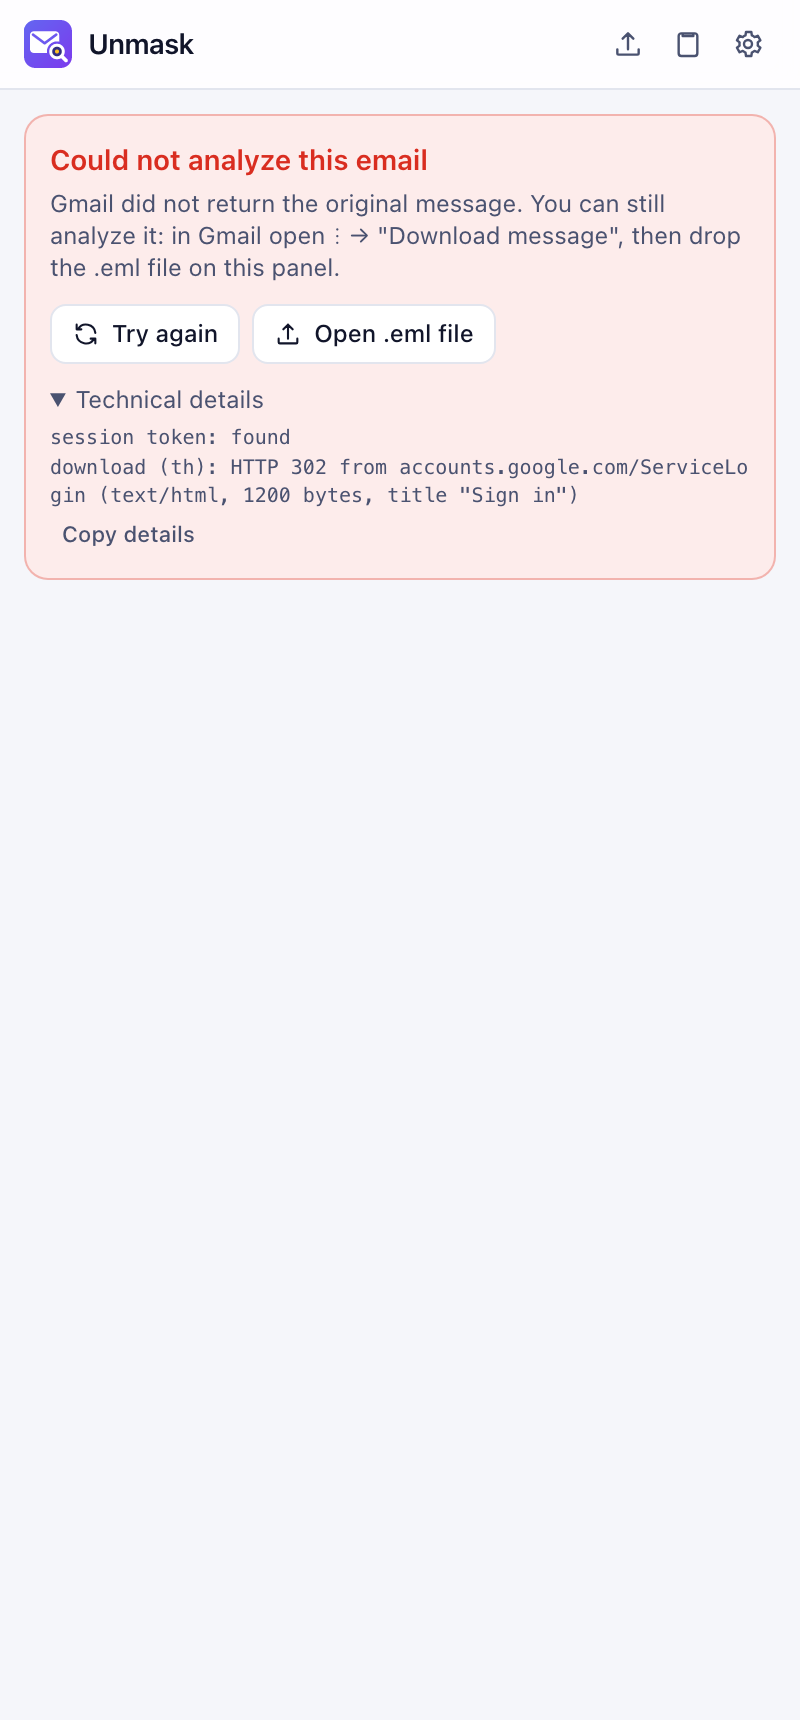
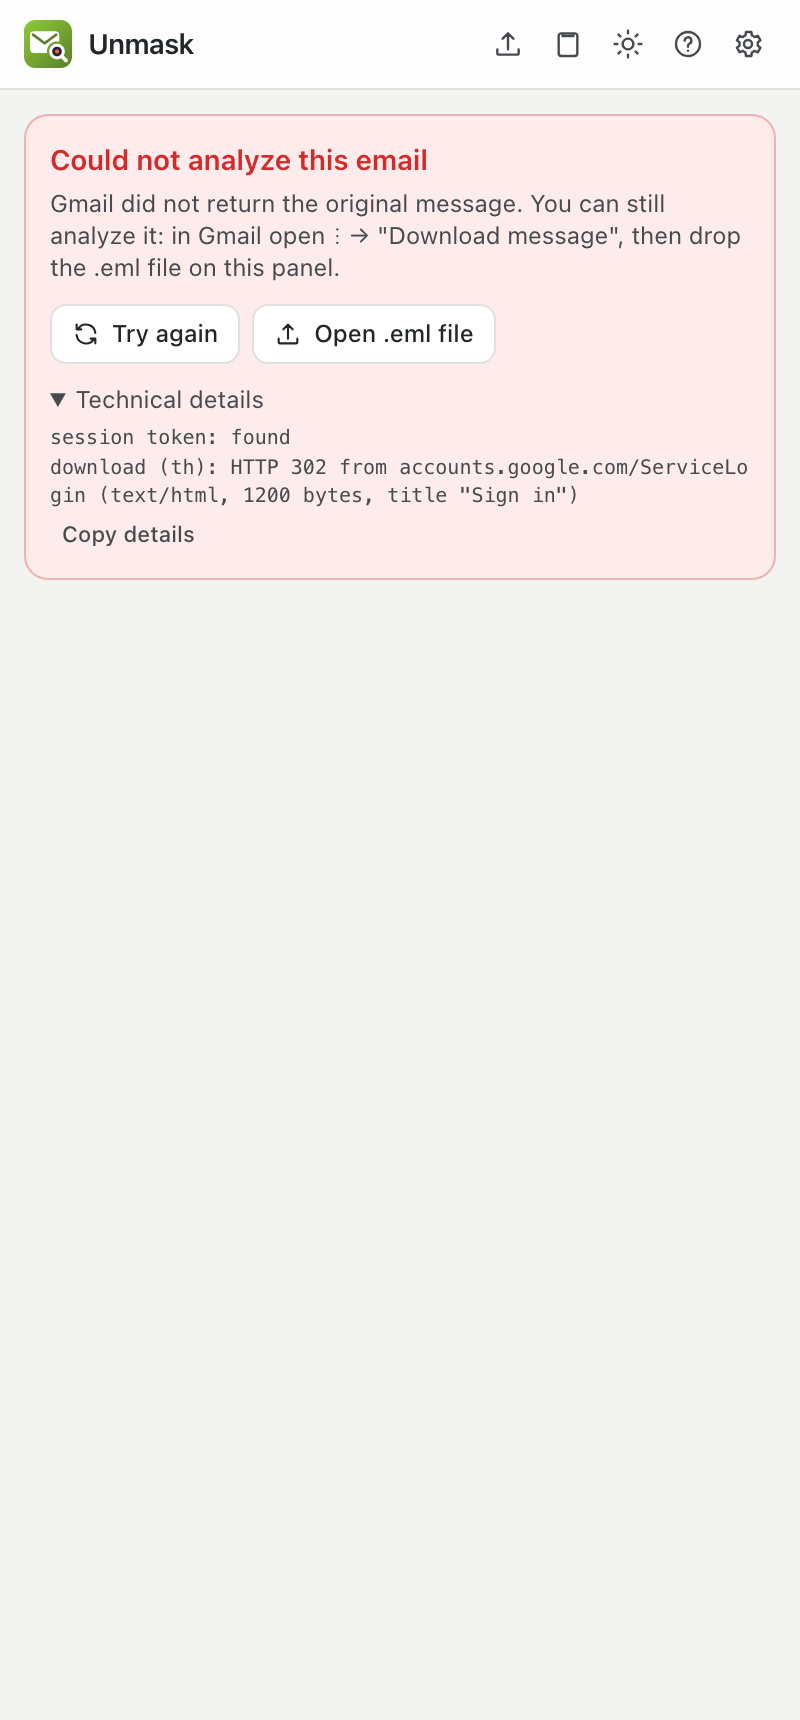
docs: new screenshots, README quick start, built-in tracing in every guide
All screenshots retaken in the green theme (light and dark), plus new ones
for plain-text hover, headers and tracing. The README opens with a three-step
quick start linking the website, user guide and wiki. The user guide, limits,
privacy policy and architecture describe built-in redirect tracing, its
optional permission and the theme switch.

diff --git a/README.md b/README.md
@@ -10,15 +10,17 @@
 </p>
 
 <p align="center">
-  <a href="https://github.com/praneeth132006/Unmask/releases/latest"><img alt="Latest release" src="https://img.shields.io/github/v/release/praneeth132006/Unmask?label=download&color=6366F1"></a>
+  <a href="https://github.com/praneeth132006/Unmask/releases/latest"><img alt="Latest release" src="https://img.shields.io/github/v/release/praneeth132006/Unmask?label=download&color=61892F"></a>
   <a href="https://github.com/praneeth132006/Unmask/actions/workflows/ci.yml"><img alt="CI" src="https://github.com/praneeth132006/Unmask/actions/workflows/ci.yml/badge.svg"></a>
   <a href="https://github.com/praneeth132006/Unmask/actions/workflows/codeql.yml"><img alt="CodeQL" src="https://github.com/praneeth132006/Unmask/actions/workflows/codeql.yml/badge.svg"></a>
-  <a href="LICENSE"><img alt="MIT licence" src="https://img.shields.io/github/license/praneeth132006/Unmask?color=0c8f61"></a>
-  <a href="CONTRIBUTING.md"><img alt="PRs welcome" src="https://img.shields.io/badge/PRs-welcome-5b4cf0"></a>
+  <a href="LICENSE"><img alt="MIT licence" src="https://img.shields.io/github/license/praneeth132006/Unmask?color=474B4F"></a>
+  <a href="CONTRIBUTING.md"><img alt="PRs welcome" src="https://img.shields.io/badge/PRs-welcome-86C232"></a>
 </p>
 
 <p align="center">
-  <a href="docs/USER_GUIDE.md">User guide</a> ·
+  <a href="https://praneeth132006.github.io/Unmask/"><b>Website</b></a> ·
+  <a href="https://praneeth132006.github.io/Unmask/guide.html"><b>User guide</b></a> ·
+  <a href="https://github.com/praneeth132006/Unmask/wiki">Wiki</a> ·
   <a href="docs/CHECKS.md">What it checks</a> ·
   <a href="docs/ARCHITECTURE.md">How it works</a> ·
   <a href="docs/BACKEND.md">Redirect-trace server</a> ·
@@ -29,6 +31,14 @@
 </p>
 
 ---
+
+## Quick start
+
+> **1. Download** [`unmask-chrome-<version>.zip`](https://github.com/praneeth132006/Unmask/releases/latest) from the latest release (under *Assets*) and unzip it.<br>
+> **2. Load it:** open `chrome://extensions`, switch on **Developer mode** (top right), click **Load unpacked**, and pick the unzipped folder (the one with `manifest.json` in it).<br>
+> **3. Use it:** reload Gmail, open any email, and click the Unmask icon.
+>
+> 📖 **[Read the user guide](https://praneeth132006.github.io/Unmask/guide.html)**: every screen explained, step-by-step key setup, troubleshooting. Also in the [wiki](https://github.com/praneeth132006/Unmask/wiki) and [docs/USER_GUIDE.md](docs/USER_GUIDE.md).
 
 <p align="center">
   <img src="docs/images/overview-light.png" width="260" alt="Unmask summary in light mode, showing a High risk verdict">
@@ -48,7 +58,7 @@ Open an email in Gmail and click the Unmask icon. A side panel shows:
 - **Attachment checks**, including files pretending to be something else (`Invoice.pdf.html`) and a VirusTotal lookup.
 - **Hidden text and tracking pixels** the sender didn't want you to see.
 
-**Hover any red flag and Unmask outlines that exact part of the email in Gmail.** Click it to jump to the details, then use **Back to summary** to return.
+**Hover any red flag, link, or URL in the plain text and Unmask outlines that exact part of the email in Gmail.** Click a red flag to jump to the details, then use **Back to summary** to return. Switch between light, dark and system themes from the header.
 
 <p align="center">
   <img src="docs/images/highlight-link.png" width="420" alt="Hovering a finding outlines the matching link in the Gmail message">
@@ -109,12 +119,14 @@ Unmask works with no setup at all. These free services add extra checks you run 
 |---|---|---|---|
 | **VirusTotal** | Checks attachments (by fingerprint) and links against 70+ antivirus engines | 4 lookups/min, 500/day | Click **Check on VirusTotal** on any file or link and follow the 3 steps in the panel |
 | **urlscan.io** | Opens a link in urlscan's sandbox browser and shows a screenshot of where it lands | 1,000 unlisted + 50 private scans/day | Click **Sandbox scan** on any link and follow the steps |
-| **Redirect tracing** | Follows a link's redirects from your own server | Free on your computer | For technical users: run `pnpm backend`, see [docs/BACKEND.md](docs/BACKEND.md) |
+| **Redirect tracing** | Follows a link's redirects without opening it | Free, unlimited | Built in: click **Trace redirects** and allow once. A self-hosted server is optional ([docs/BACKEND.md](docs/BACKEND.md)) |
 
 **Free keys can never be charged.** Going over a limit just pauses that check until the quota resets. Paid plans exist only for heavy or commercial use: see **[Free limits and costs](docs/LIMITS_AND_COSTS.md)** for every number and price.
 
 <p align="center">
-  <img src="docs/images/setup-virustotal.png" width="300" alt="Step-by-step VirusTotal setup shown inside the panel">
+  <img src="docs/images/setup-virustotal.png" width="260" alt="Step-by-step VirusTotal setup shown inside the panel">
+  &nbsp;
+  <img src="docs/images/trace-dark.png" width="260" alt="One-click redirect tracing inside Unmask">
 </p>
 
 ## Privacy

diff --git a/docs/USER_GUIDE.md b/docs/USER_GUIDE.md
@@ -8,7 +8,7 @@ This guide is for everyone, no technical background needed. It covers installing
 - [4. Hover to see it in the email](#4-hover-to-see-it-in-the-email)
 - [5. Setting up VirusTotal](#5-setting-up-virustotal)
 - [6. Setting up urlscan.io](#6-setting-up-urlscanio)
-- [7. Redirect tracing (advanced)](#7-redirect-tracing-advanced)
+- [7. Tracing redirects](#7-tracing-redirects)
 - [8. Emails from Outlook and other apps](#8-emails-from-outlook-and-other-apps)
 - [9. Settings](#9-settings)
 - [10. Troubleshooting](#10-troubleshooting)
@@ -223,16 +223,23 @@ A scan takes 10 to 30 seconds. Scans are **unlisted** by default: hidden from ur
 
 ---
 
-## 7. Redirect tracing (advanced)
+## 7. Tracing redirects
 
-**Trace redirects** follows a link's chain of redirects (for example `bit.ly → tracker → final page`) from a small server **you run**, so your browser never opens the link. It's meant for technical users. Most people should use **Sandbox scan** instead, which shows the final page too.
+<img src="images/trace-dark.png" width="280" align="right" alt="Trace redirects explainer card">
 
-To use it:
+Links in emails often bounce through several addresses (`bit.ly → tracker → final page`). **Trace redirects** shows every step and where the link really ends, without opening it.
 
-1. In the Unmask project folder, run `pnpm backend` and leave it running.
-2. In Unmask, click **Trace redirects** on a link (or open **Settings → Advanced**), then click **Use local server**.
+1. In the **Links** tab, click **Trace redirects** on any link.
+2. The first time, Unmask explains what will happen. Click **Allow and trace**, then **Allow** in Chrome's prompt. You only do this once.
+3. The redirect chain appears in the card: each address, its status code, and how it redirected (HTTP, a `<meta refresh>` or JavaScript).
 
-You can also deploy the server to Vercel so it's always available. See [BACKEND.md](BACKEND.md).
+**What happens behind the scenes:** Unmask's background worker requests the link **without cookies or logins**, never opens it in a tab, and never runs its code. It reads only the first part of each page to spot meta or JavaScript redirects. Links pointing at your own network (your router, `localhost`, `192.168.x.x`) are refused.
+
+**Privacy note:** the link's website sees your IP address, just as if you'd visited it. If you'd rather it didn't, use **Sandbox scan** (urlscan.io visits it for you), or set up your own trace server under **Settings → Advanced → Redirect tracing → My own server** (see [BACKEND.md](BACKEND.md)).
+
+**Why does Chrome ask for permission?** Tracing needs to contact any website the link might lead to. The permission is optional and requested only when you first use it, so installing Unmask doesn't ask for it. You can remove it any time from `chrome://extensions` → Unmask → **Details** → **Site access**.
+
+<br clear="right">
 
 ---
 
@@ -257,12 +264,13 @@ To open Unmask's panel outside Gmail, click its toolbar icon on any page.
 
 <img src="images/settings-light.png" width="280" align="right" alt="Settings">
 
-Open Settings with the **gear icon**.
+Open Settings with the **gear icon**. The **?** icon next to it opens this guide.
 
 - **Extra checks:** each service shows **Connected** or **Not set up**, with buttons to set up, change or remove its key.
 - **urlscan.io scan visibility:** unlisted (recommended, 1,000 free per day), private (50 free per day; best for links with personal tokens) or public.
 - **Privacy → Check how old the sender's domain is:** on by default. It sends only the domain name (for example `example.com`) to rdap.org, the public registry lookup.
-- **Advanced → Redirect tracing:** the address of your trace server.
+- **Appearance:** System (follows your computer), Light or Dark. The sun/moon button in the header switches it too.
+- **Advanced → Redirect tracing:** *Inside Unmask* (default) or *My own server*, with the server's address.
 
 <br clear="right">
 

diff --git a/docs/LIMITS_AND_COSTS.md b/docs/LIMITS_AND_COSTS.md
@@ -10,7 +10,8 @@ _Prices and limits checked on 19 October 2026 against each provider's official p
 | **Domain age** (rdap.org) | Free, no account | No published quota; 1 lookup per email you open | Rarely, a registry may refuse a lookup; Unmask shows "RDAP returned HTTP 429" and carries on |
 | **VirusTotal** (files and links) | Free account | **4 lookups per minute, 500 per day** (about 15,500 per month) | "VirusTotal rate limit reached"; try again in a minute, or after 00:00 UTC for the daily limit. No charge. |
 | **urlscan.io** (sandbox scans) | Free account | **5,000 public, 1,000 unlisted and 50 private scans per day**, 10,000 result lookups per day | "urlscan.io rate limit reached"; try again later. No charge. |
-| **Redirect-trace server** (optional, self-hosted) | Free on your computer; free on Vercel Hobby | Vercel Hobby: 1M requests and 4 hours of active CPU per month | Hobby projects stop at the cap. They can't buy more, so there's no surprise bill. |
+| **Redirect tracing** (built in) | Free | Unlimited (it runs in your browser) | — |
+| **Your own trace server** (optional) | Free on your computer; free on Vercel Hobby | Vercel Hobby: 1M requests and 4 hours of active CPU per month | Hobby projects stop at the cap. They can't buy more, so there's no surprise bill. |
 
 ## How much will I actually use?
 
@@ -56,9 +57,9 @@ Official source: [urlscan.io pricing](https://urlscan.io/pricing/).
 
 rdap.org is a free public service that forwards each lookup to the official registry for that domain ending (for example Verisign for `.com`). There is no account and no published quota. Unmask makes **one lookup per email**, only for the sender's domain, and you can turn it off in **Settings → Privacy**.
 
-## Redirect-trace server
+## Redirect tracing
 
-Optional and for technical users ([BACKEND.md](BACKEND.md)).
+Built into Unmask and free: it runs in your browser and costs nothing. The self-hosted server is only for people who'd rather the link's website saw a server's IP address instead of theirs ([BACKEND.md](BACKEND.md)).
 
 - **On your own computer** (`pnpm backend`): free, no limits beyond your machine.
 - **On Vercel Hobby:** free for personal, non-commercial use, including 1M function invocations, 4 hours of active CPU and 360 GB-hours of memory per month. Each trace is one invocation lasting a few seconds at most. Hobby accounts **can't buy extra usage**, so you're never billed; the project stops when it hits the cap.

diff --git a/PRIVACY.md b/PRIVACY.md
@@ -16,7 +16,8 @@ Unmask is a browser extension that analyses emails for signs of phishing. It is 
 | Data | Sent to | When |
 |---|---|---|
 | The sender's domain name (e.g. `example.com`) | rdap.org and the domain's registry | Automatically when an email is analysed, unless you turn off "Check how old the sender's domain is" in Settings, or when you click **Check domain age** |
-| One link's URL | The redirect-trace backend URL you configured | Only when you click **Trace redirects** on that link |
+| A request to the link itself (no cookies, never opened in a tab) | The link's website, and each site it redirects to | Only when you click **Trace redirects** (built-in tracing). The sites see your IP address, as with any visit |
+| One link's URL | Your own trace server | Only if you chose **My own server** in Settings and click **Trace redirects** |
 | Your API key, to check it works | VirusTotal or urlscan.io | When you click **Save & test** while setting up a key |
 | One link's URL | urlscan.io, using your API key | Only when you click **Sandbox scan** on that link |
 | One link's URL | VirusTotal, using your API key | Only when you click **VirusTotal** on that link |
@@ -37,6 +38,7 @@ If you run or deploy the open-source backend in this repository, it receives one
 - `https://www.virustotal.com/*`, `https://urlscan.io/*`: to call those services when you click their buttons.
 - `storage`: to save your settings.
 - `tabs`: to know whether the active tab is Gmail.
+- `webRequest` and the **optional** permission to access all sites: used only by **Trace redirects**, to see each redirect step of Unmask's own background request. Chrome asks for it the first time you trace a link; Unmask never reads or changes your browsing.
 - `sidePanel`: to show the Unmask panel.
 
 ## No tracking

diff --git a/docs/ARCHITECTURE.md b/docs/ARCHITECTURE.md
@@ -147,7 +147,7 @@ Elements get a `data-unmask-hl` attribute styled by one injected `<style>`. `cle
 | `rdap.ts` | `https://rdap.org/domain/<domain>` | Registration date and registrar; 404 means no record |
 | `virustotal.ts` | `/api/v3/files/<sha256>`, `/urls/<id>`, `/files` (upload), `/analyses/<id>` | URL ids are unpadded base64url; upload polling respects the free 4/min limit |
 | `urlscan.ts` | `/api/v1/scan/`, `/api/v1/result/<uuid>/` | Polls until ready; screenshot from `/screenshots/<uuid>.png` |
-| `trace.ts` | `<backend>/api/trace?url=` | See [BACKEND.md](BACKEND.md) |
+| `trace.ts` | built-in (background worker) or `<backend>/api/trace?url=` | Built-in: `lib/builtinTrace.ts` fetches with `credentials: 'omit'`, records hops with `webRequest.onBeforeRedirect` (matched by request id, initiator and `tabId -1`), parses meta/JS redirects from 256 KB, blocks local-network targets at every hop; traces are serialized. Needs the optional `<all_urls>` permission, requested from a click |
 | `keyTest.ts` | VirusTotal EICAR lookup, urlscan quotas, backend `/api/health` | Validates a key before saving it |
 
 ## Security model
@@ -171,3 +171,4 @@ Found a vulnerability? See [SECURITY.md](../SECURITY.md).
 | `https://mail.google.com/*` | Content scripts; fetch the original message |
 | `https://*.googleusercontent.com/*` | *Download original* redirects here |
 | `https://www.virustotal.com/*`, `https://urlscan.io/*` | Online checks you start |
+| `webRequest` + optional `<all_urls>` | Built-in redirect tracing only; requested on first use |
